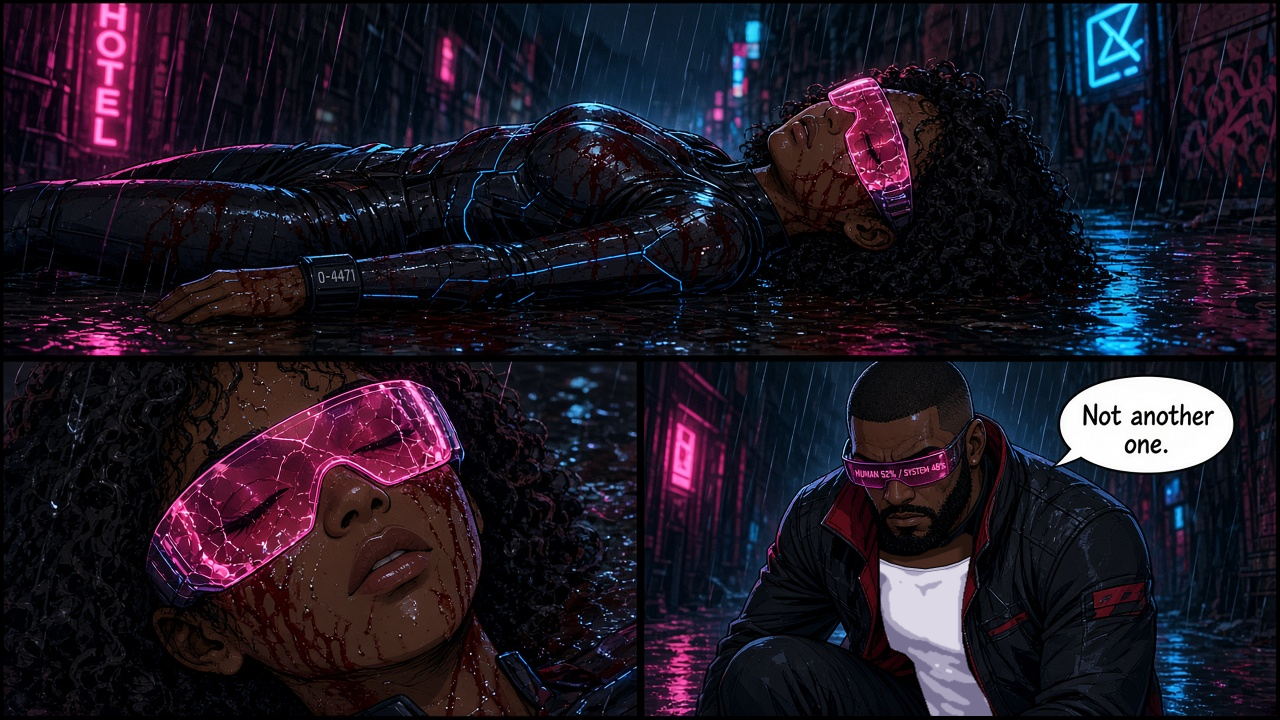
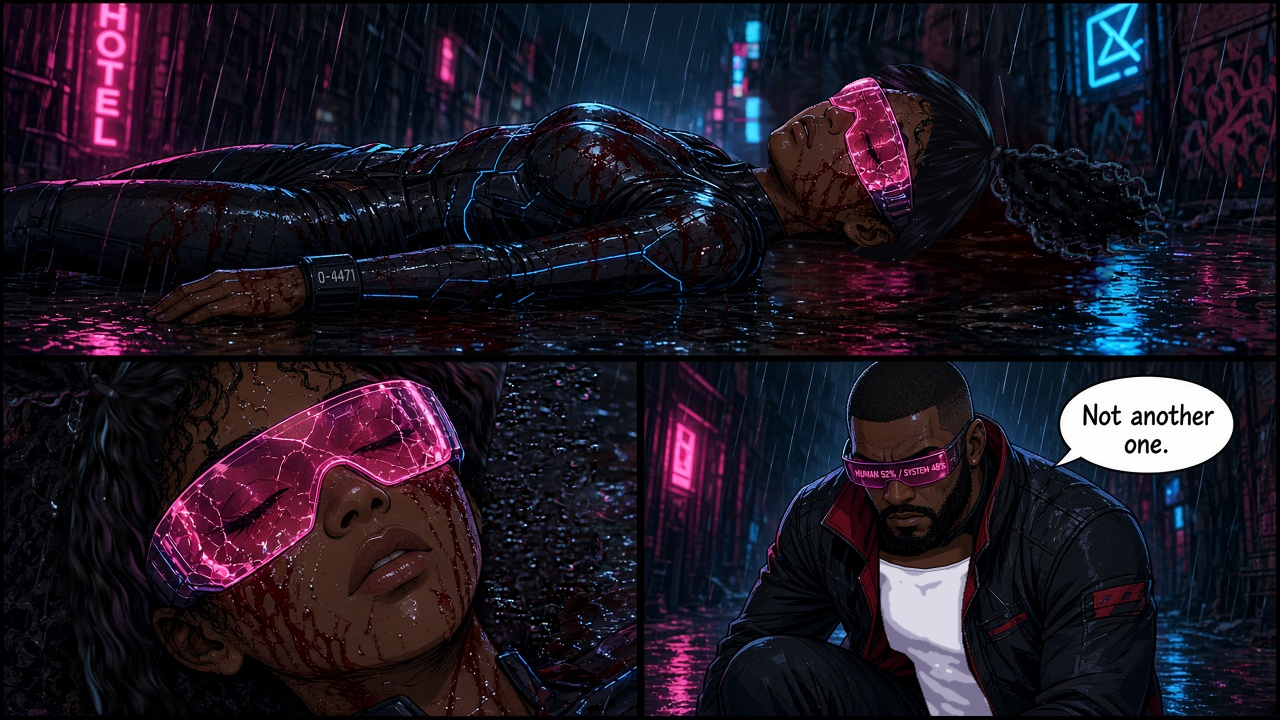
Pages 5 and 7: Sierra ponytail

diff --git a/index.html b/index.html
@@ -83,7 +83,7 @@
         <figure class="comic-page-frame">
           <img
             id="comic-page-img"
-            src="assets/comics/issue1/page-01.png?v=3"
+            src="assets/comics/issue1/page-01.png?v=4"
             alt="720: Soul Protocol Issue #1 - page 1"
             width="1280"
             height="720"
@@ -102,43 +102,43 @@
         <p class="comic-scroll-title">Full issue — scroll to read (no buttons needed)</p>
         <figure class="comic-scroll-page" id="issue1-p01">
           <figcaption class="comic-scroll-label">Page 1 of 10</figcaption>
-          <img src="assets/comics/issue1/page-01.png?v=3" alt="Issue #1 page 1" width="1280" height="720" loading="lazy" />
+          <img src="assets/comics/issue1/page-01.png?v=4" alt="Issue #1 page 1" width="1280" height="720" loading="lazy" />
         </figure>
         <figure class="comic-scroll-page" id="issue1-p02">
           <figcaption class="comic-scroll-label">Page 2 of 10</figcaption>
-          <img src="assets/comics/issue1/page-02.png?v=3" alt="Issue #1 page 2" width="1280" height="720" loading="lazy" />
+          <img src="assets/comics/issue1/page-02.png?v=4" alt="Issue #1 page 2" width="1280" height="720" loading="lazy" />
         </figure>
         <figure class="comic-scroll-page" id="issue1-p03">
           <figcaption class="comic-scroll-label">Page 3 of 10</figcaption>
-          <img src="assets/comics/issue1/page-03.png?v=3" alt="Issue #1 page 3" width="1280" height="720" loading="lazy" />
+          <img src="assets/comics/issue1/page-03.png?v=4" alt="Issue #1 page 3" width="1280" height="720" loading="lazy" />
         </figure>
         <figure class="comic-scroll-page" id="issue1-p04">
           <figcaption class="comic-scroll-label">Page 4 of 10</figcaption>
-          <img src="assets/comics/issue1/page-04.png?v=3" alt="Issue #1 page 4" width="1280" height="720" loading="lazy" />
+          <img src="assets/comics/issue1/page-04.png?v=4" alt="Issue #1 page 4" width="1280" height="720" loading="lazy" />
         </figure>
         <figure class="comic-scroll-page" id="issue1-p05">
           <figcaption class="comic-scroll-label">Page 5 of 10</figcaption>
-          <img src="assets/comics/issue1/page-05.png?v=3" alt="Issue #1 page 5" width="1280" height="720" loading="lazy" />
+          <img src="assets/comics/issue1/page-05.png?v=4" alt="Issue #1 page 5" width="1280" height="720" loading="lazy" />
         </figure>
         <figure class="comic-scroll-page" id="issue1-p06">
           <figcaption class="comic-scroll-label">Page 6 of 10</figcaption>
-          <img src="assets/comics/issue1/page-06.png?v=3" alt="Issue #1 page 6" width="1280" height="720" loading="lazy" />
+          <img src="assets/comics/issue1/page-06.png?v=4" alt="Issue #1 page 6" width="1280" height="720" loading="lazy" />
         </figure>
         <figure class="comic-scroll-page" id="issue1-p07">
           <figcaption class="comic-scroll-label">Page 7 of 10</figcaption>
-          <img src="assets/comics/issue1/page-07.png?v=3" alt="Issue #1 page 7" width="1280" height="720" loading="lazy" />
+          <img src="assets/comics/issue1/page-07.png?v=4" alt="Issue #1 page 7" width="1280" height="720" loading="lazy" />
         </figure>
         <figure class="comic-scroll-page" id="issue1-p08">
           <figcaption class="comic-scroll-label">Page 8 of 10</figcaption>
-          <img src="assets/comics/issue1/page-08.png?v=3" alt="Issue #1 page 8" width="1280" height="720" loading="lazy" />
+          <img src="assets/comics/issue1/page-08.png?v=4" alt="Issue #1 page 8" width="1280" height="720" loading="lazy" />
         </figure>
         <figure class="comic-scroll-page" id="issue1-p09">
           <figcaption class="comic-scroll-label">Page 9 of 10</figcaption>
-          <img src="assets/comics/issue1/page-09.png?v=3" alt="Issue #1 page 9" width="1280" height="720" loading="lazy" />
+          <img src="assets/comics/issue1/page-09.png?v=4" alt="Issue #1 page 9" width="1280" height="720" loading="lazy" />
         </figure>
         <figure class="comic-scroll-page" id="issue1-p10">
           <figcaption class="comic-scroll-label">Page 10 of 10</figcaption>
-          <img src="assets/comics/issue1/page-10.png?v=3" alt="Issue #1 page 10" width="1280" height="720" loading="lazy" />
+          <img src="assets/comics/issue1/page-10.png?v=4" alt="Issue #1 page 10" width="1280" height="720" loading="lazy" />
         </figure>
       </div>
 
@@ -315,7 +315,7 @@
       function pad(n) { return n < 10 ? "0" + n : String(n); }
 
       function show() {
-        img.src = "assets/comics/issue1/page-" + pad(page) + ".png?v=3&p=" + page;
+        img.src = "assets/comics/issue1/page-" + pad(page) + ".png?v=4&p=" + page;
         img.alt = "720: Soul Protocol Issue #1 - page " + page;
         var label = page + " / " + total;
         num.textContent = label;
